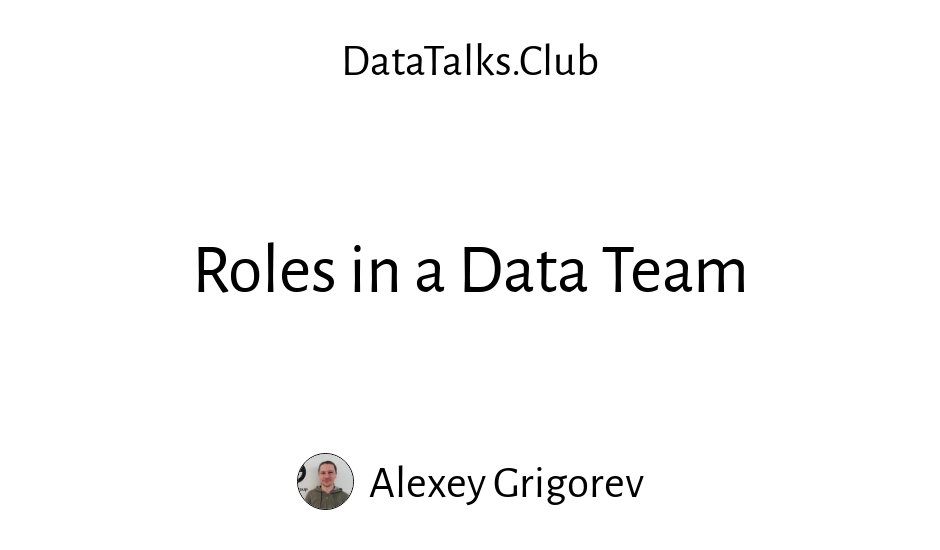
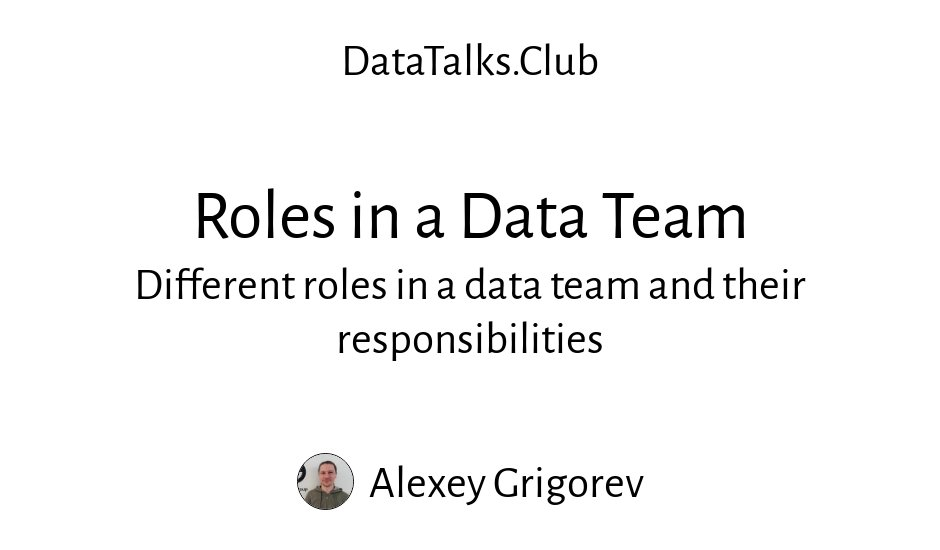
subtitle

Changed region(s): [[0.1234, 0.34, 0.8638, 0.5564], [0.3394, 0.5873, 0.6479, 0.6491]]

diff --git a/_posts/2020-12-14-data-roles.md b/_posts/2020-12-14-data-roles.md
@@ -1,7 +1,8 @@
 ---
 layout: post
 title: "Roles in a Data Team"
-description: "In this article, we'll talk about different roles in a data team and discuss their responsibilities."
+subtitle: "Different roles in a data team and their responsibilities"
+description: "Different roles in a data team and their responsibilities"
 image: "images/2020-12-14-data-roles/cover.jpg"
 authors: [alexeygrigorev]
 tags: [team, process, podcast]
